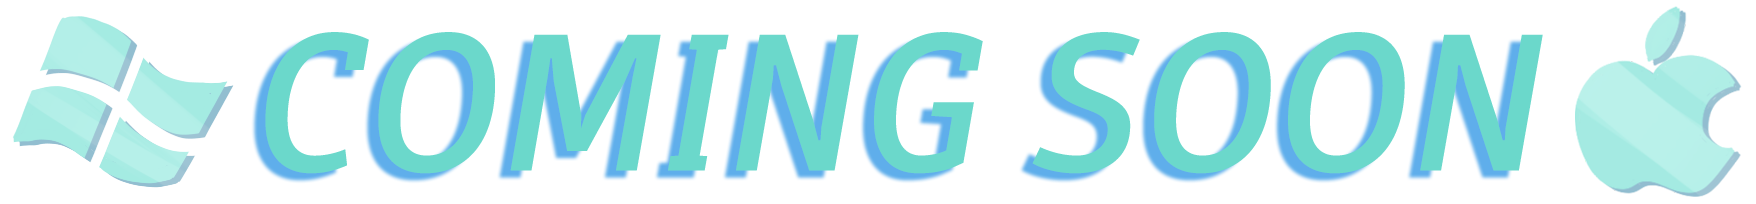
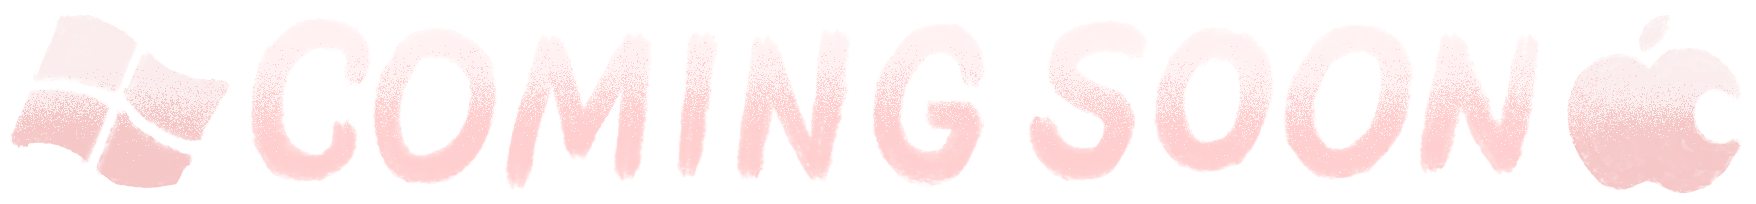
updated pictures

diff --git a/about.html b/about.html
@@ -74,8 +74,8 @@
 
 <!--======================================SMILE FOR ME====================================-->
 
-  <div class="row" style="width:100%;padding:0px">
-    <img src="Images/TitleWide.png" style="width:100%">
+  <div class="row" style="padding:10px 25%">
+    <img src="Images/textlogo.png">
   </div>
 
   <div class="row" style="background-color:#06373d;padding:3vw">
